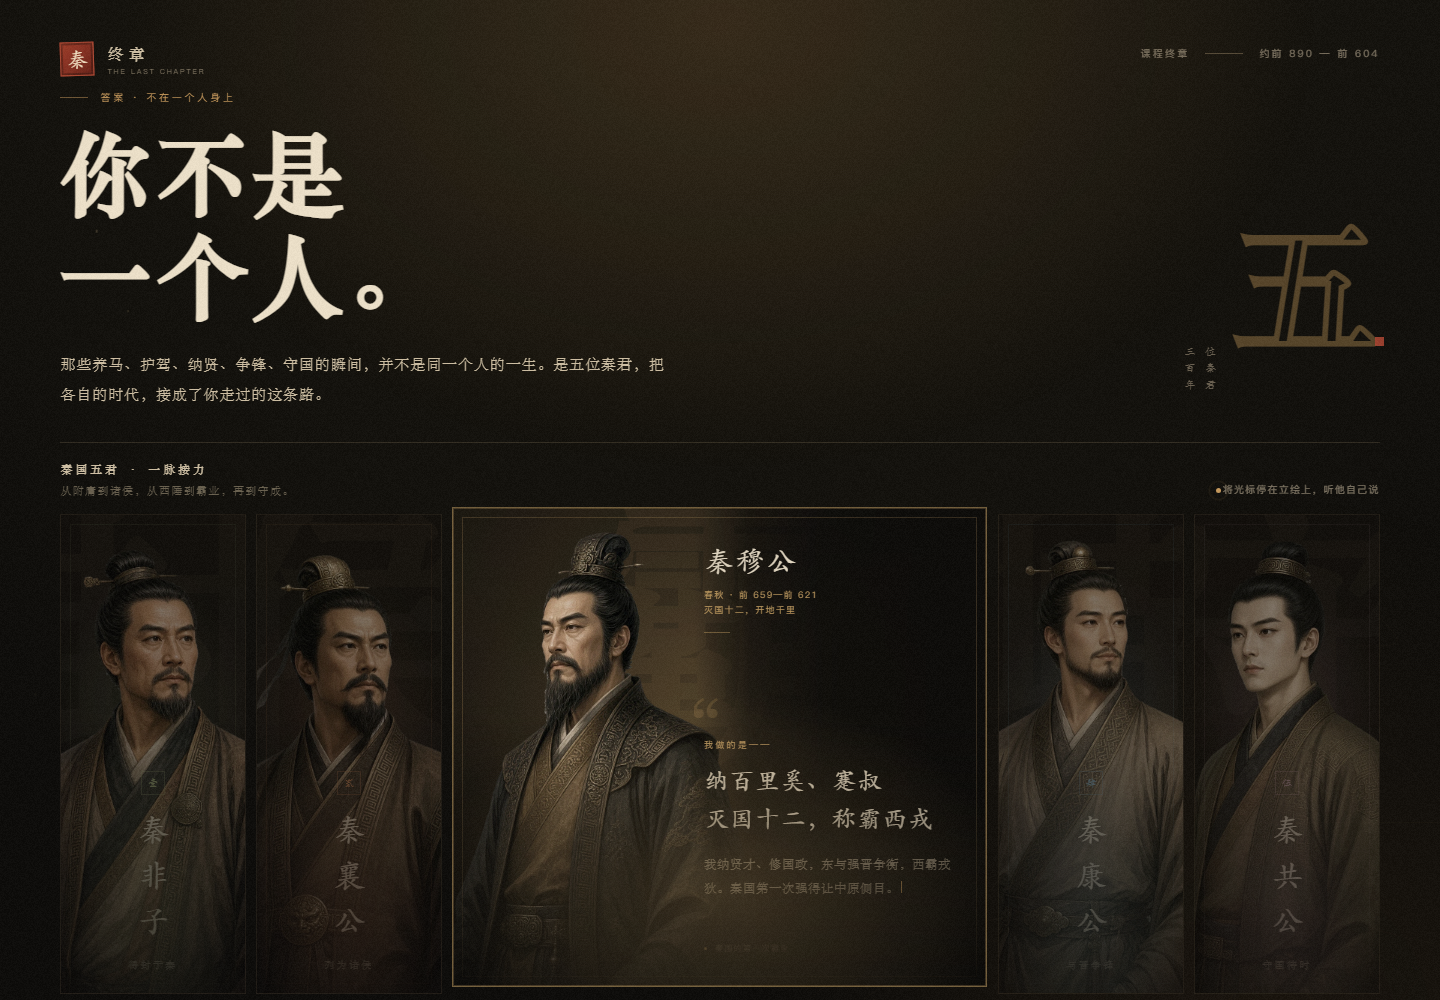
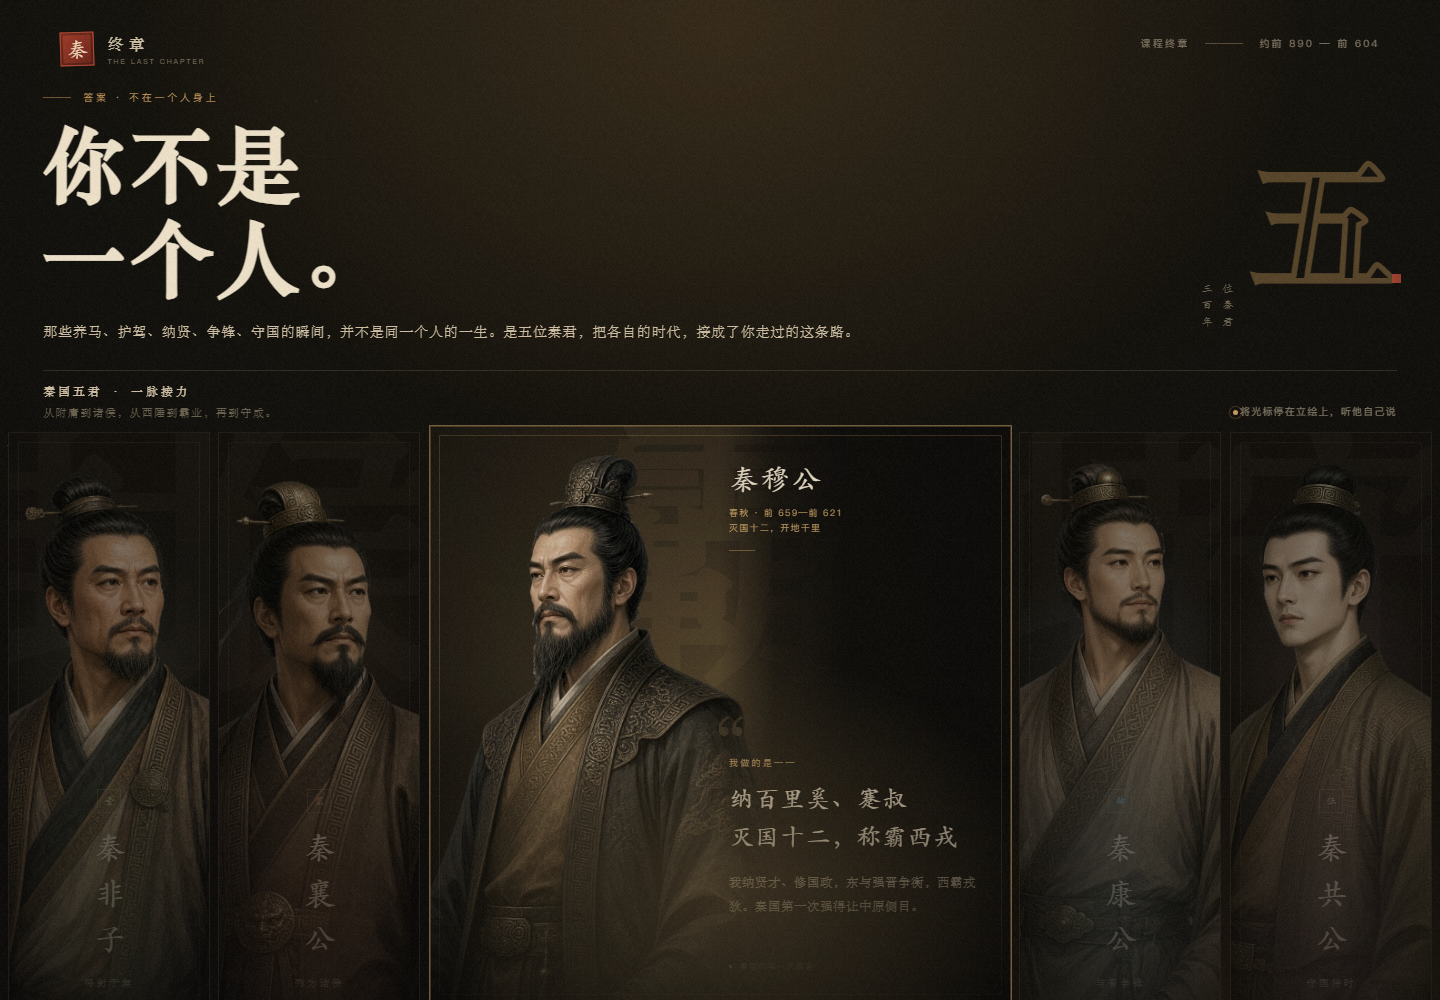
feat: enlarge five portraits on the closing screen

diff --git a/styles.css b/styles.css
@@ -209,7 +209,7 @@ button {
   justify-content: space-between;
   align-items: flex-start;
   width: 100%;
-  padding: clamp(20px, 3.2vw, 42px) clamp(22px, 4.2vw, 68px);
+  padding: clamp(20px, 2.4vw, 32px) clamp(22px, 4.2vw, 68px);
   pointer-events: none;
 }
 
@@ -477,7 +477,7 @@ body.is-revealed .prologue {
   z-index: 2;
   width: min(100%, 1540px);
   margin: 0 auto;
-  padding: clamp(88px, 9vh, 120px) clamp(22px, 4.2vw, 68px) 0;
+  padding: clamp(88px, 9vh, 108px) clamp(18px, 3vw, 48px) 0;
   opacity: 0;
   visibility: hidden;
 }
@@ -490,16 +490,16 @@ body.is-revealed .reveal {
 .thesis {
   display: grid;
   grid-template-columns: minmax(0, 1fr) auto;
-  gap: 40px;
+  gap: 30px;
   align-items: end;
-  padding-bottom: clamp(24px, 3.2vh, 38px);
+  padding-bottom: clamp(16px, 2.4vh, 28px);
 }
 
 .eyebrow {
   display: flex;
   align-items: center;
   gap: 12px;
-  margin: 0 0 21px;
+  margin: 0 0 16px;
   color: var(--bronze);
   font-family: var(--font-sans);
   font-size: 10px;
@@ -515,7 +515,7 @@ body.is-revealed .reveal {
 .thesis-title {
   margin: 0;
   font-family: var(--font-display);
-  font-size: clamp(50px, 6.4vw, 96px);
+  font-size: clamp(48px, 5.8vw, 86px);
   font-weight: 700;
   line-height: 1.03;
   letter-spacing: 0.035em;
@@ -542,12 +542,12 @@ body.is-revealed .title-line:nth-child(2) > span {
 }
 
 .lede {
-  max-width: 620px;
-  margin: 20px 0 0;
+  max-width: 900px;
+  margin: 15px 0 0;
   color: var(--paper-soft);
   font-family: var(--font-serif);
-  font-size: clamp(13px, 1.05vw, 15px);
-  line-height: 2;
+  font-size: clamp(13px, 1vw, 14px);
+  line-height: 1.85;
   letter-spacing: 0.06em;
   opacity: 0;
   transform: translateY(10px);
@@ -616,7 +616,7 @@ body.is-revealed .thesis-mark {
 
 .gallery-section {
   border-top: 1px solid var(--line);
-  padding-top: 18px;
+  padding-top: 12px;
 }
 
 .gallery-head {
@@ -624,7 +624,7 @@ body.is-revealed .thesis-mark {
   justify-content: space-between;
   align-items: flex-end;
   gap: 28px;
-  margin-bottom: 16px;
+  margin-bottom: 12px;
 }
 
 .section-label {
@@ -688,11 +688,20 @@ body.is-revealed .thesis-mark {
   position: relative;
 }
 
+@media (min-width: 981px) {
+  .rail-wrap {
+    margin-right: calc(-1 * clamp(18px, 3vw, 48px));
+    margin-left: calc(-1 * clamp(18px, 3vw, 48px));
+    padding-right: 8px;
+    padding-left: 8px;
+  }
+}
+
 .rail {
   display: flex;
   justify-content: center;
-  gap: 10px;
-  height: clamp(400px, 48vh, 530px);
+  gap: 8px;
+  height: clamp(440px, 58vh, 640px);
 }
 
 .ruler {
@@ -1358,7 +1367,7 @@ body.all-visited .coda.in-view .seal {
   }
 
   .thesis-title {
-    font-size: clamp(52px, 7.4vw, 82px);
+    font-size: clamp(48px, 6.4vw, 78px);
   }
 
   .rail {
@@ -1381,14 +1390,14 @@ body.all-visited .coda.in-view .seal {
 
 @media (max-width: 980px) {
   .rail-wrap {
-    margin-right: calc(clamp(22px, 4.2vw, 68px) * -1);
-    margin-left: calc(clamp(22px, 4.2vw, 68px) * -1);
+    margin-right: calc(clamp(18px, 3vw, 48px) * -1);
+    margin-left: calc(clamp(18px, 3vw, 48px) * -1);
   }
 
   .rail {
     justify-content: flex-start;
-    height: clamp(430px, 60vh, 550px);
-    padding: 0 clamp(22px, 4.2vw, 68px) 9px;
+    height: clamp(460px, 64vh, 600px);
+    padding: 0 clamp(18px, 3vw, 48px) 9px;
     overflow-x: auto;
     overflow-y: hidden;
     scroll-snap-type: x mandatory;
@@ -1531,12 +1540,12 @@ body.all-visited .coda.in-view .seal {
   }
 
   .reveal {
-    padding-top: 92px;
+    padding-top: 78px;
   }
 
   .thesis {
     grid-template-columns: 1fr;
-    gap: 20px;
+    gap: 16px;
   }
 
   .thesis-mark {
@@ -1544,14 +1553,14 @@ body.all-visited .coda.in-view .seal {
   }
 
   .thesis-title {
-    font-size: clamp(48px, 15vw, 68px);
+    font-size: clamp(44px, 13vw, 60px);
     letter-spacing: 0.01em;
   }
 
   .lede {
-    margin-top: 18px;
-    font-size: 13px;
-    line-height: 1.95;
+    margin-top: 14px;
+    font-size: 12.5px;
+    line-height: 1.9;
   }
 
   .gallery-section {
@@ -1570,7 +1579,7 @@ body.all-visited .coda.in-view .seal {
   }
 
   .rail {
-    height: clamp(440px, 62vh, 540px);
+    height: clamp(470px, 66vh, 590px);
   }
 
   .ruler {
@@ -1663,7 +1672,7 @@ body.all-visited .coda.in-view .seal {
   }
 
   .rail {
-    height: 390px;
+    height: 440px;
   }
 
   .quote-body {

diff --git a/README.md b/README.md
@@ -123,6 +123,7 @@ document.querySelector('iframe').contentWindow.QinEnding.reveal();
 - `prefers-reduced-motion: reduce` 下禁用位移、逐字、漂浮尘埃和印章弹跳。
 - 页面无横向溢出；移动端横向滚动只发生在立绘轨道内部。
 - 移动端底部详情面板占卡片下半部，保证姓名、功绩和自述都能读到。
+- 桌面端立绘轨道接近全宽、高度为 58vh；上方标题区压缩，人物在首屏中的占比更大。
 
 ### 性能处理
 
